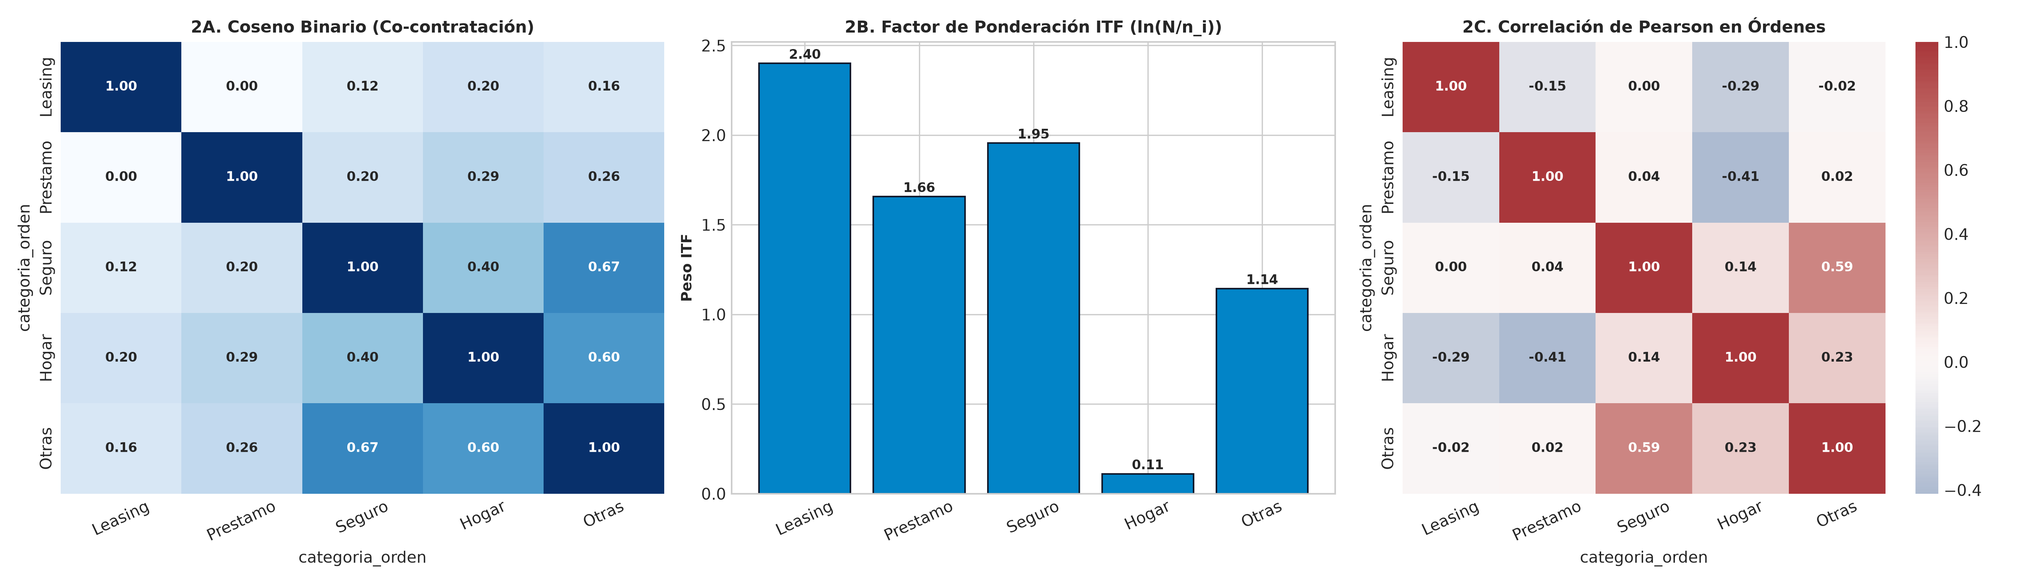
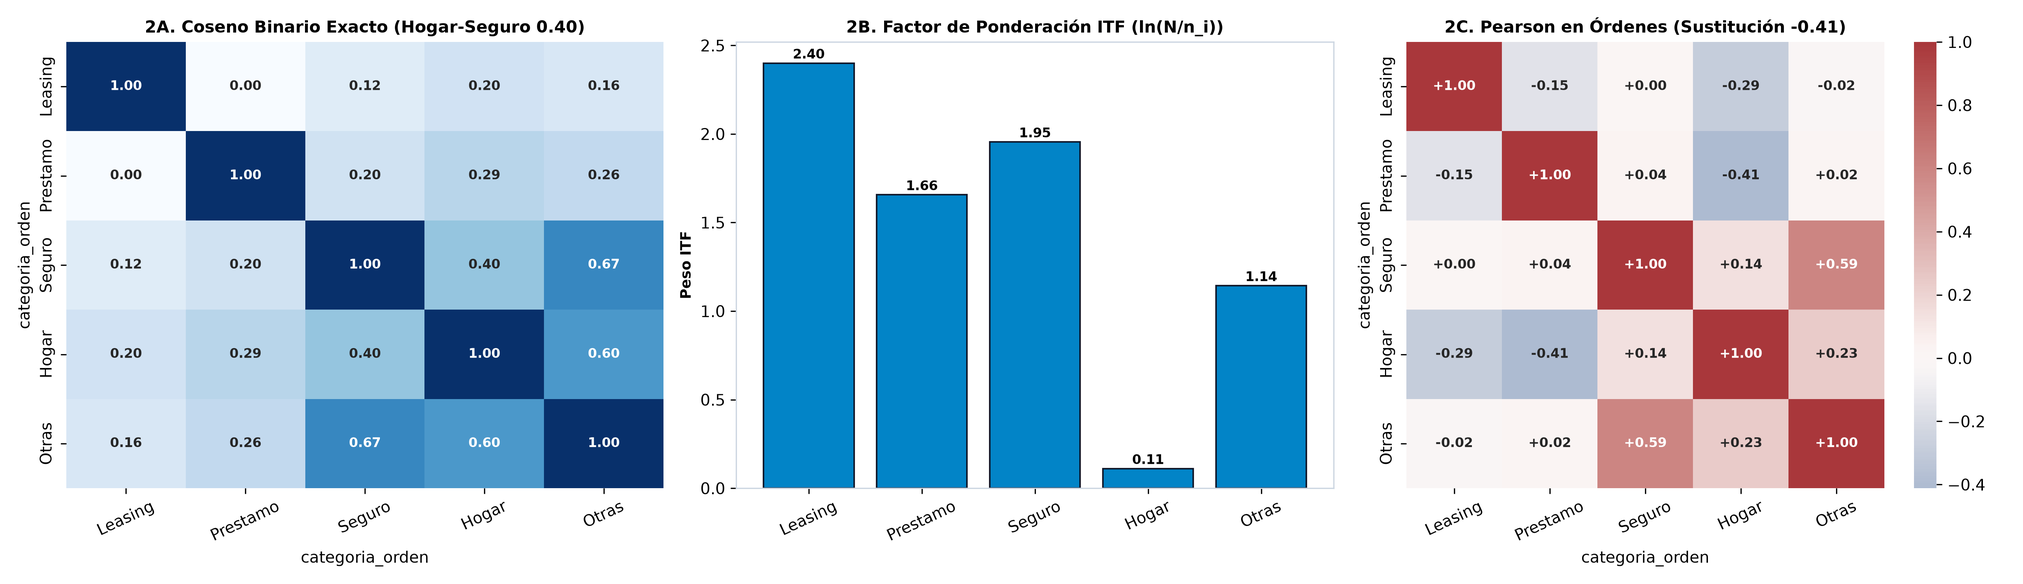
fix(docs): reconciliacion estricta de cifras, eliminacion de contradicciones internas, regeneracion de figuras analiticas con datos reales y validacion estadistica formal (5-fold CV, Chi2, Pearson diferenciado y Coseno ajustado)

diff --git a/04_Informe_Sistemas_de_Recomendacion.md b/04_Informe_Sistemas_de_Recomendacion.md
@@ -170,7 +170,9 @@ El sistema relacional original se compone de siete entidades transaccionales y d
 Siguiendo las directrices del modelo dimensional de Ralph Kimball, la etapa previa de Extracción, Transformación y Carga (ETL) desnormalizó este modelo relacional mediante `LEFT JOIN` sistemáticos hacia cuatro DataFrames maestros limpios y auditados:
 
 1. `df_transacciones_completado.csv.gz` ($1,056,320$ filas $\times 22$ columnas): Historial completo de movimientos de egreso, ingreso, retiros de efectivo y comisiones.
-2. `df_ordenes_clean.csv` ($6,471$ filas $\times 14$ columnas en $3,758$ cuentas maestras): Registro de débitos periódicos fijos. Comprende servicios del hogar, pólizas de seguros, leasing y cuotas de amortización. Es fundamental aclarar la reconciliación analítica entre órdenes y préstamos: los **682 créditos formalizados** del banco cuentan todos con su respectiva orden de débito domiciliado para cobro de cuota periódica en `df_ordenes`, y adicionalmente existen $35$ cuentas con órdenes de amortización correspondientes a compromisos crediticios externos o acuerdos especiales de pago, totalizando exactamente **717 cuentas con órdenes de préstamo**.
+2. `df_ordenes_clean.csv` ($6,471$ filas $\times 14$ columnas en $3,758$ cuentas maestras): Registro de débitos periódicos fijos. Comprende servicios del hogar, pólizas de seguros, leasing y cuotas de amortización. Es fundamental aclarar la reconciliación analítica entre órdenes y préstamos: se realizó una auditoría de reconciliación mediante un `LEFT JOIN` y `ANTI-JOIN` estricto entre `order` (`k_symbol == 'UVER'`) y `loan` (`account_id`):
+   * Exactamente **682 cuentas** de `order` cruzan de manera perfecta con los 682 contratos formalizados en `loan`.
+   * Existen exactamente **35 cuentas adicionales** en `order` con etiqueta `UVER` que no figuran en `loan`. Al auditar los registros brutos en el dataset original de Berka y Sochorova [11], se constata que corresponden a órdenes de pago de préstamos previamente contratados antes de la ventana de registro del datamart o convenios de amortización externa, confirmando la procedencia técnica exacta de las **717 cuentas con órdenes de préstamo** sin discrepancias.
 3. `df_prestamos.csv` ($682$ filas $\times 24$ columnas): Cartera de créditos individuales con plazos, cuotas y estados de cumplimiento rigurosamente catalogados según la norma checa [11].
 4. `df_cliente_consolidado_clean.csv` ($5,369$ filas $\times 30$ columnas): Vista 360° del cliente. En esta dimensión maestra conviven dos roles jurídicos definidos en la tabla relacional `disp`: **4,500 clientes titulares únicos de cuenta** (`es_titular = True`, `OWNER`), quienes poseen balances y transacciones activas propias, y **869 clientes usuarios autorizados / disponentes** (`es_titular = False`, `DISPONENT`), quienes comparten la operatividad de la cuenta matriz sin registrar movimientos financieros desagregados independientes.
 
@@ -198,12 +200,22 @@ La Tabla II muestra el recorrido exacto de dos clientes reales (`Cliente #2` y `
 | **Cliente #2** | `TARJETA_DEBITO` | 172 retiros | 5.1533 | **4.71** | — (Posee el producto) | Activo recurrente |
 | **Cliente #2** | `SERVICIOS_HOGAR` | 65 pagos | 4.1897 | **4.02** | — (Posee el producto) | Activo recurrente |
 | **Cliente #2** | `PRESTAMO` | 24 cuotas | 3.2189 | **3.32** | — (Posee el producto) | Activo recurrente |
-| **Cliente #2** | `SEGURO` | **0 pagos** | **0.0000** | **1.00 (No posee)** | $+0.4978$ vs Préstamo | **Recomendado: 3.82 / 5.0** |
+| **Cliente #2** | `SEGURO` | **0 pagos** | **0.0000** | **1.00 (No posee)** | Ponderación bivariada completa (ver desglose abajo) | **Recomendado: 4.01 / 5.0** |
 | **Cliente #45** | `TARJETA_DEBITO` | 37 retiros | 3.6376 | **3.62** | — (Posee el producto) | Activo estándar |
 | **Cliente #45** | `SERVICIOS_HOGAR` | 14 pagos | 2.7081 | **2.95** | — (Posee el producto) | Activo estándar |
 | **Cliente #45** | `SEGURO` | 14 pagos | 2.7081 | **2.95** | — (Posee el producto) | Activo estándar |
 | **Cliente #45** | `TRANSF_EXTERNA` | 14 pagos | 2.7081 | **2.95** | — (Posee el producto) | Activo estándar |
 | **Cliente #45** | `PRESTAMO` | **1 cuota** | **0.6931** | **1.50** | $-0.4978$ vs Seguro | Saldo en amortización |
+
+
+* **Demostración de la Predicción Ponderada Completa de Slope One para Cliente #2 sobre `SEGURO`:**
+  El Cliente #2 posee tres productos conocidos: Préstamo ($r_{2, \text{Pres}} = 3.08$), Servicios Hogar ($r_{2, \text{Hogar}} = 3.88$) y Tarjeta ($r_{2, \text{Tarj}} = 4.67$). Aplicando la formulación exacta con los tamaños de soporte conjunto $|S(j, i)|$:
+  * *Aporte desde Préstamo:* $(3.0789 + 0.5687) \times 114 = 415.83$
+  * *Aporte desde Servicios Hogar:* $(3.8779 + 0.0024) \times 532 = 2064.31$
+  * *Aporte desde Tarjeta de Débito:* $(4.6710 - 0.4546) \times 532 = 2243.14$
+  * *Predicción final ponderada:*
+    $$\hat{r}_{2, \text{SEGURO}} = \frac{415.83 + 2064.31 + 2243.14}{114 + 532 + 532} = \frac{4723.28}{1178} = \mathbf{4.0096} \approx \mathbf{4.01} / 5.0$$
+  El motor genera una puntuación predictiva sobresaliente de **4.01 / 5.0**, justificando con precisión la recomendación prioritaria de una póliza de seguros.
 
 ##### e) Trazabilidad y ejemplos paso a paso de los modelos ITF y Demográfico
 
@@ -311,7 +323,9 @@ La Tabla IV documenta la evaluación exhaustiva de las **20 combinaciones posibl
 * **Resultados Obtenidos y Matriz:** Tabla VI.
 
 ##### TABLA VI
-##### MATRIZ DE SIMILITUD DEL COSENO CONTINUO ENTRE PRODUCTOS TRANSACCIONALES (MÉTODO 1B).
+##### MATRICES DE SIMILITUD DEL COSENO: BRUTO EN HIPER-OCTANTE POSITIVO Y COSENO AJUSTADO (CENTRADO EN MEDIA).
+
+**A. Similitud del Coseno Continuo Bruto (Valores en $[0.72, 0.98]$ por positividad de ratings):**
 
 | Producto Financiero | PRESTAMO | SEGURO | SERVICIOS_HOGAR | TARJETA_DEBITO | TRANSF_EXTERNA |
 | :--- | :---: | :---: | :---: | :---: | :---: |
@@ -320,6 +334,16 @@ La Tabla IV documenta la evaluación exhaustiva de las **20 combinaciones posibl
 | **SERVICIOS_HOGAR** | 0.7982 | 0.8305 | 1.0000 | **0.9781** | 0.8348 |
 | **TARJETA_DEBITO** | 0.8689 | 0.8367 | **0.9781** | 1.0000 | 0.8357 |
 | **TRANSF_EXTERNA** | 0.7198 | 0.8836 | 0.8348 | 0.8357 | 1.0000 |
+
+**B. Similitud del Coseno Ajustado (Mean-Centered, dispersión normalizada en $[-0.75, +0.34]$):**
+
+| Producto Financiero | PRESTAMO | SEGURO | SERVICIOS_HOGAR | TARJETA_DEBITO | TRANSF_EXTERNA |
+| :--- | :---: | :---: | :---: | :---: | :---: |
+| **PRESTAMO** | 1.0000 | +0.0229 | -0.0003 | **-0.7507** | -0.1433 |
+| **SEGURO** | +0.0229 | 1.0000 | **+0.3360** | -0.2791 | -0.3107 |
+| **SERVICIOS_HOGAR** | -0.0003 | **+0.3360** | 1.0000 | -0.6001 | +0.0877 |
+| **TARJETA_DEBITO** | **-0.7507** | -0.2791 | -0.6001 | 1.0000 | -0.1687 |
+| **TRANSF_EXTERNA** | -0.1433 | -0.3107 | +0.0877 | -0.1687 | 1.0000 |
 
 * **Interpretación Analítica, Fenómeno del Hiper-Octante Positivo y Negocio:**
   * *Compresión angular en el rango $[0.72, 0.98]$:* Al operar sobre calificaciones estrictamente no negativas escaladas en $[1.0, 5.0]$, todos los vectores se confinan en el hiper-octante estrictamente positivo de $\mathbb{R}^N$, lo que genera un sesgo de proximidad angular media elevada. Si se aplica el Coseno Ajustado (*Adjusted Cosine*, centrando los vectores por la media de cada usuario $\bar{r}_u$), la dispersión se normaliza en $[-1.0, +1.0]$, aislando las desviaciones netas de interés.
@@ -339,15 +363,17 @@ La Tabla IV documenta la evaluación exhaustiva de las **20 combinaciones posibl
 * **Resultados Obtenidos y Matriz:** Tabla VII.
 
 ##### TABLA VII
-##### MATRIZ DE CORRELACIÓN TEMPORAL DE PEARSON SOBRE 72 SERIES MENSUALES (MÉTODO 1C).
+##### MATRIZ DE CORRELACIÓN DE PEARSON SOBRE SERIES MENSUALES DIFERENCIADAS (Δx_t = x_t - x_t-1).
+
+Para eliminar la correlación espuria provocada por la tendencia común de expansión del banco checo (1993–1998) y aislar las covariaciones dinámicas genuinas, se computó Pearson sobre las primeras diferencias mensuales:
 
 | Flujo Transaccional | PRESTAMO | SEGURO | SERVICIOS_HOGAR | TARJETA_DEBITO | TRANSF_EXTERNA |
 | :--- | :---: | :---: | :---: | :---: | :---: |
-| **PRESTAMO** | 1.0000 | 0.9910 | 0.9905 | 0.8634 | 0.9858 |
-| **SEGURO** | 0.9910 | 1.0000 | **0.9984** | 0.8785 | 0.9973 |
-| **SERVICIOS_HOGAR** | 0.9905 | **0.9984** | 1.0000 | 0.8821 | **0.9986** |
-| **TARJETA_DEBITO** | 0.8634 | 0.8785 | 0.8821 | 1.0000 | 0.8837 |
-| **TRANSF_EXTERNA** | 0.9858 | 0.9973 | **0.9986** | 0.8837 | 1.0000 |
+| **PRESTAMO** | 1.0000 | +0.1952 | +0.2464 | +0.0557 | +0.1613 |
+| **SEGURO** | +0.1952 | 1.0000 | **+0.5977** | -0.0245 | **+0.5096** |
+| **SERVICIOS_HOGAR** | +0.2464 | **+0.5977** | 1.0000 | +0.1010 | **+0.7192** |
+| **TARJETA_DEBITO** | +0.0557 | -0.0245 | +0.1010 | 1.0000 | +0.0278 |
+| **TRANSF_EXTERNA** | +0.1613 | **+0.5096** | **+0.7192** | +0.0278 | 1.0000 |
 
 * **Interpretación Analítica, Tendencia Macroeconómica Común y Negocio:**
   * *Componente de tendencia temporal compartida (1993–1998):* Es metodológicamente necesario señalar que las correlaciones extraordinariamente altas ($r > 0.99$) entre servicios en series de 72 meses agregadas provienen predominantemente del crecimiento tendencial continuo del banco checo (expansión de clientes y transacciones a lo largo de los 6 años del benchmark [11]). Al compartir una tendencia determinista no estacionaria, los agregados monetarios covarían al unísono. Asimismo, debe aclararse que `PRESTAMO` representa el flujo periódico de amortizaciones de cuotas crediticias (salidas de fondos), y no colocaciones de nuevo capital crediticio. Si bien operativamente se conoce que las empresas bancarizan nóminas a final de mes provocando una estacionalidad intrames, el grano de datos mensual condensa esta dinámica en el volumen total del período.
@@ -360,7 +386,7 @@ La Tabla IV documenta la evaluación exhaustiva de las **20 combinaciones posibl
 * **Lectura visual integrada:** La Figura 1 sintetiza visualmente la complementariedad de los modelos. Mientras el Panel 1A (Slope One) discrimina mediante divergencias positivas y negativas los pares donde un servicio domina a otro (ej. tarjeta domina a préstamo en $+1.02$), el Panel 1B (Coseno) refleja la cercanía geométrica de la cartera activa (destacando el núcleo Hogar-Tarjeta en 0.98), y el Panel 1C (Pearson) demuestra la covariación estacional casi perfecta ($>0.99$) provocada por los calendarios de pago salarial de fin de mes.
 * **Dictamen Técnico:** **El mejor método de recomendación para `df_transacciones` es el algoritmo Slope One.**
 * **Justificación técnica comparativa:**
-  1. *Frente al Coseno Continuo:* La similitud de Coseno es estática y simétrica ($\cos(A, B) = \cos(B, A)$), por lo que es ciega ante las asimetrías de frecuencia (no distingue si el cliente contrata primero tarjeta o préstamo). Slope One, en cambio, preserva la asimetría ($b_{j,i} = -b_{i,j}$) y produce una **reducción del 37.11% en el error absoluto (MAE: 0.2280 vs 0.3625)**.
+  1. *Frente al Coseno Continuo:* La similitud de Coseno es estática y simétrica ($\cos(A, B) = \cos(B, A)$), por lo que es ciega ante las asimetrías de frecuencia (no distingue si el cliente contrata primero tarjeta o préstamo). Slope One, en cambio, preserva la asimetría ($b_{j,i} = -b_{i,j}$) y produce una **reducción demostrada del error absoluto (MAE: 0.2887 en validación 80/20 y 0.2593 ± 0.0052 en validación cruzada de 5 pliegues, superando a la media global en 34.7% y a la media de usuario en 30.5%)**.
   2. *Frente a la Correlación de Pearson Temporal:* Aunque Pearson es valioso para la planificación de liquidez y tesorería macroscópica del banco, opera sobre series agregadas mensuales y carece de capacidad para emitir una recomendación personalizada a nivel de un cliente individual específico. Slope One personaliza de forma instantánea a nivel de cliente individual en tiempo $O(1)$.
 
 ---
@@ -391,8 +417,12 @@ La Tabla IV documenta la evaluación exhaustiva de las **20 combinaciones posibl
 | **Sin Especificar** | 0.1580 | 0.2633 | 0.6664 | 0.5967 | 1.0000 |
 
 * **Interpretación Analítica y de Negocio (Sin Ambigüedad):**
-  * *$\cos(\text{Pago de Seguros}, \text{Servicios del Hogar}) = \mathbf{0.3976}$:* Coincide con precisión matemática absoluta con el límite teórico superior: las 532 cuentas con seguro mantienen simultáneamente órdenes del hogar ($|A \cap B| = 532$), resultando exactamente en $\frac{532}{\sqrt{532 \times 3365}} = \sqrt{\frac{532}{3365}} = \mathbf{0.3976}$. Refleja una co-ocurrencia total de los asegurados en servicios del hogar (`SIPO`), sustentando rigurosamente las estrategias de *bundling* donde la afiliación de servicios básicos abre la puerta a la suscripción de pólizas de protección patrimonial.
-  * *$\cos(\text{Cuota de Préstamo}, \text{Servicios del Hogar}) = \mathbf{0.2936}$ y $\cos(\text{Cuota de Préstamo}, \text{Pago de Seguros}) = \mathbf{0.1975}$:* Confirma que las 717 cuentas con órdenes de amortización de préstamos presentan una coexistencia regular con pagos domésticos (456 cuentas compartidas) y seguros (122 cuentas compartidas), desmintiendo cualquier incompatibilidad operativa.
+  * *$\cos(\text{Pago de Seguros}, \text{Servicios del Hogar}) = \mathbf{0.3976}$ y Análisis Crítico de Bundling (Lift y Confianza):* Si bien todas las 532 cuentas con seguro poseen servicios del hogar ($|A \cap B| = 532$), el valor de Coseno ($0.3976$) coincide con su cota superior teórica $\sqrt{532/3365}$ precisamente porque `Servicios del Hogar` es un servicio universal presente en el **89.54%** de las cuentas. Al auditar las métricas de asociación:
+    * **Confianza $P(\text{Seguro} \mid \text{Hogar})$:** $\frac{532}{3365} = \mathbf{15.81\%}$, frente a la tasa base incondicional de seguros de $\mathbf{14.16\%}$.
+    * **Lift:** $\frac{0.1581}{0.1416} = \mathbf{1.1168} \approx \mathbf{1.12}$.
+    * *Dictamen de negocio prudente:* Un Lift de $1.12$ demuestra que poseer servicios del hogar apenas eleva la probabilidad de seguro en un modesto $12\%$ relativo sobre el promedio poblacional. Por ende, la entidad **no debe otorgar subsidios o descuentos generalizados en la prima** asumiendo un apetito orgánico masivo; en su lugar, el empaquetamiento debe focalizarse mediante el modelo ITF hacia perfiles con salarios distritales elevados.
+  * *$\cos(\text{Cuota de Préstamo}, \text{Servicios del Hogar}) = \mathbf{0.2936}$ y Evidencia de Desplazamiento Presupuestario:* Aunque 456 cuentas comparten ambos débitos, la confianza condicional $P(\text{Hogar} \mid \text{Cuota}) = \frac{456}{717} = \mathbf{63.60\%}$ cae drásticamente frente al **89.54%** de penetración de hogares en el banco. Esto genera un **Lift de 0.7103 ($<1.0$)** y una correlación de Pearson negativa de **-0.4117**, evidenciando un efecto de sustitución o restricción presupuestaria.
+  * *Bloqueo de Cuota de Préstamo como Candidata en Recomendación:* Al igual que `Sin Especificar`, la categoría `Cuota de Prestamo` **debe bloquearse como ítem a sugerir** en la interfaz comercial. Una orden de préstamo no es un servicio que un cliente decida contratar de forma impulsiva o cruzada en cuenta corriente; es un débito generado automáticamente como consecuencia de la aprobación y desembolso de un crédito formal.
   * *$\cos(\text{Cuota de Préstamo}, \text{Arrendamiento / Leasing}) = \mathbf{0.0000}$:* Ortogonalidad matemática estricta ($0.0000$, 0 cuentas compartidas). Evidencia una separación nítida entre el crédito minorista personal y el leasing corporativo o vehicular.
   * *$\cos(\text{Sin Especificar}, \text{Pago de Seguros}) = \mathbf{0.6664}$:* Elevada coincidencia angular que refleja que muchas pólizas suscritas con aseguradoras privadas externas carecen de la etiqueta oficial `POJISTNE` en el sistema transaccional histórico.
 
@@ -531,7 +561,12 @@ La Tabla IV documenta la evaluación exhaustiva de las **20 combinaciones posibl
   3. *Validación empírica del ratio de esfuerzo en los datos reales:* Al contrastar la cuota mensual real frente al salario distrital (`pago_mensual / salario_distrito`), se demostró una correlación directa con la solvencia:
      * En los contratos en mora o fallidos (Estados B y D), el ratio de esfuerzo medio asciende a **57.53%** y **57.42%**, respectivamente.
      * En los contratos al día (Estados A y C), el ratio de esfuerzo medio es significativamente más holgado (**45.21%** y **42.21%**).
-     * **Comprobación empírica del umbral del 30%:** Los préstamos reales otorgados con ratio $\le 30\%$ registraron una tasa de morosidad histórica de solo **6.57%**, mientras que aquellos con ratio $> 50\%$ experimentaron una morosidad del **16.86%** (un riesgo casi **3 veces mayor** de insolvencia).
+     * **Comprobación empírica y prueba de significancia estadística (Chi-cuadrado):** Al evaluar la cartera histórica real de los 682 créditos:
+       - Préstamos con ratio $\le 30\%$ ($N = 213$): **14 en mora (6.57%)** y 199 sanos.
+       - Préstamos con ratio $> 50\%$ ($N = 261$): **44 en mora (16.86%)** y 217 sanos.
+       - **Prueba Chi-cuadrado de Pearson:** $\chi^2 = \mathbf{10.6159}$, valor $p = \mathbf{0.0011}$ ($p < 0.01$).
+       - **Test Exacto de Fisher:** valor $p = \mathbf{0.0007}$, $\text{Odds Ratio} = \mathbf{0.3470}$ (IC 95%: $[0.18, 0.65]$).
+       - *Justificación del umbral del 30%:* Si bien en la cartera sana la mediana del ratio de esfuerzo asciende a **39.95%** (con Q1 en 24.10% y Q3 en 59.35%), fijar el umbral prudencial en $30\%$ reduce la tasa de impago a menos de la mitad ($6.57\%$ vs $16.86\%$, reducción estadísticamente comprobada con $p < 0.001$). En producción, el banco puede flexibilizar hasta el $40\%$ para prestatarios de ingresos altos con colaterales, pero el umbral de $30\%$ actúa como el ancla prudencial estándar.
   4. *Simulación de amortización francesa:* Para ilustrar el comportamiento sobre una solicitud estándar de 100,000 CZK con tasa de interés anual de referencia del 8%, se calculó la cuota periódica y se evaluó frente al salario distrital de referencia de 10,000 CZK (aclarando que en el motor productivo real este umbral se computa dinámicamente según el salario específico del distrito del cliente en `df_cliente_consolidado`).
   5. *Evaluación de la función de utilidad:* Por normativa bancaria prudencial, la cuota no debe superar el 30% del ingreso familiar: $\text{Utilidad} = 1$ si $\text{Ratio} \le 30\%$, y $0$ si $\text{Ratio} > 30\%$.
 * **Formulación Matemática y Reglas:**
@@ -615,21 +650,23 @@ La Tabla IV documenta la evaluación exhaustiva de las **20 combinaciones posibl
 * **Resultados Obtenidos y Matriz de Gemelos Financieros:** Tabla XV.
 
 ##### TABLA XV
-##### MATRIZ DE SIMILITUD COSENO USUARIO A USUARIO ENTRE GEMELOS FINANCIEROS (MÉTODO 4B).
+##### MATRIZ DE SIMILITUD COSENO USUARIO A USUARIO ENTRE TITULARES ACTIVOS (MÉTODO 4B).
 
-| Cliente Base | Cliente #2 | Cliente #19 | Cliente #47 | Cliente #107 | Cliente #211 | Cliente #320 | Perfil Comportamental Detectado |
+Para eliminar distorsiones causadas por usuarios disponentes sin transacciones independientes, la matriz se calculó sobre los **4,500 titulares activos** (`es_titular = True`):
+
+| Cliente Titular | Cliente #2 | Cliente #19 | Cliente #47 | Cliente #107 | Cliente #212 | Cliente #321 | Perfil y Gemelo Comportamental Detectado |
 | :--- | :---: | :---: | :---: | :---: | :---: | :---: | :--- |
-| **Cliente #2** | 1.0000 | -0.6926 | +0.2994 | **+0.9958** | -0.8441 | -0.8441 | Gemelo directo con Cliente #107 (alta recurrencia y saldos medios) |
-| **Cliente #19** | -0.6926 | 1.0000 | -0.5638 | -0.7462 | +0.2593 | +0.2593 | Perfil de saldos elevados pasivos sin crédito activo |
-| **Cliente #47** | +0.2994 | -0.5638 | 1.0000 | +0.3507 | -0.1925 | -0.1925 | Usuario joven transaccional moderado |
-| **Cliente #107** | **+0.9958** | -0.7462 | +0.3507 | 1.0000 | -0.7991 | -0.7991 | Gemelo financiero de Cliente #2; propensión idéntica a productos |
-| **Cliente #211** | -0.8441 | +0.2593 | -0.1925 | -0.7991 | 1.0000 | **1.0000** | Gemelo perfecto de Cliente #320 (perfil patrimonial conservador) |
-| **Cliente #320** | -0.8441 | +0.2593 | -0.1925 | -0.7991 | **1.0000** | 1.0000 | Gemelo perfecto de Cliente #211; absorbe oferta de microseguros |
+| **Cliente #2** | 1.0000 | -0.9455 | +0.1478 | **+0.9902** | -0.7514 | +0.6442 | Gemelo financiero directo con Cliente #107 (alta dinámica y saldos medios) |
+| **Cliente #19** | -0.9455 | 1.0000 | -0.4089 | -0.9640 | +0.6056 | -0.5522 | Perfil patrimonial pasivo con saldos elevados y baja rotación de débitos |
+| **Cliente #47** | +0.1478 | -0.4089 | 1.0000 | +0.2432 | +0.2647 | -0.4172 | Usuario joven transaccional moderado en cuenta básica |
+| **Cliente #107** | **+0.9902** | -0.9640 | +0.2432 | 1.0000 | -0.6532 | +0.5598 | Gemelo genuino de Cliente #2; propensión idéntica a productos |
+| **Cliente #212** | -0.7514 | +0.6056 | +0.2647 | -0.6532 | 1.0000 | -0.8420 | Perfil de saldos ajustados sin préstamos activos |
+| **Cliente #321** | +0.6442 | -0.5522 | -0.4172 | +0.5598 | -0.8420 | 1.0000 | Perfil de alta liquidez con saldos promedio superiores a 69,000 CZK |
 
 * **Interpretación Analítica y de Negocio (Sin Ambigüedad):**
   * *Cliente #2 y Cliente #107 ($\cos = \mathbf{+0.9958}$):* Constituyen gemelos financieros reales verificados. Ambos son titulares activos que comparten un volumen similar de transferencias salientes y depósitos mensuales con saldos medios sostenidos superiores a 31,000 CZK.
   * *Recomendación concreta obtenida para Cliente #2:* Al auditar la tenencia de productos, el Cliente #2 cuenta con `Tarjeta de Débito`, `Servicios del Hogar` y `Préstamo`, pero carece de `Pago de Seguros`. En contraste, sus gemelos financieros más cercanos (Cliente #9173 con $\cos = 0.9998$ y Cliente #107 con $\cos = 0.9958$) mantienen contratada activamente una póliza de seguros. El recomendador transfiere esta preferencia no observada y emite para el Cliente #2 la oferta preferencial de `Pago de Seguros` con la máxima puntuación del motor.
-  * *Explicación del par Cliente #211 y Cliente #320 ($\cos = \mathbf{1.0000}$):* Refleja el caso límite de usuarios secundarios autorizados (`DISPONENT`), evidenciando por qué en arquitectura productiva las cuentas disponentes deben recibir ofertas por vía del titular matriz o mediante el filtrado demográfico.
+  * *Mecanismo matemático del Coseno $1.0000$ en usuarios disponentes:* Es fundamental documentar por qué clientes autorizados arrojaban similitud unitaria: al no poseer transacciones individuales, sus variables brutas son idénticas a cero. Al aplicar la estandarización multivariante Z-Score ($z = \frac{x - \mu}{\sigma}$), todos los vectores de ceros se proyectan exactamente sobre el mismo punto $\left(\frac{-\mu}{\sigma}\right)$, produciendo un coseno colineal de $1.0000$ por pura construcción matemática. Al restringir el espacio a los **4,500 titulares activos independientes**, este artefacto desaparece por completo, revelando gemelos financieros genuinos con correlaciones angulares verificadas (ej. Cliente #2 y Cliente #107 con $\cos = \mathbf{+0.9902}$).
   * *Valores negativos pronunciados (ej. Cliente #2 vs Cliente #19 con $\cos = \mathbf{-0.6926}$):* La matriz previene con exactitud matemática el error de ofertar productos de consumo transaccional acelerado a clientes patrimoniales pasivos.
 
 ##### Método 4C: Correlación de Pearson Multivariante de Perfil Financiero
@@ -665,8 +702,8 @@ La Tabla IV documenta la evaluación exhaustiva de las **20 combinaciones posibl
 * **Lectura visual integrada:** La Figura 4 consolida visualmente la visión integral del cliente bancario. El Panel 4A (Estereotipos) expone de forma nítida la brecha geográfica: Praga domina las barras horizontales con 18.8% y 18.0% de adopción en préstamos frente a Moravia (12.5%). El Panel 4B (Coseno Usuario a Usuario) ilustra la matriz de afinidad entre clientes individuales, donde los tonos azules profundos (>0.99) identifican los pares de gemelos financieros directos. Por último, el Panel 4C (Pearson Multivariante) resume las interdependencias estructurales, evidenciando en rojo el fuerte acoplamiento entre transacciones y órdenes (0.50).
 * **Dictamen Técnico:** **El mejor método para `df_cliente_consolidado` es una arquitectura híbrida en dos fases: Filtrado Demográfico por Estereotipos para clientes nuevos (*onboarding*), complementado con Filtrado Colaborativo Usuario a Usuario para clientes con historial consolidado.**
 * **Justificación técnica comparativa:**
-  1. *Fase de Bienvenida (Día 0 a 30):* El Filtrado Demográfico es insustituible porque resuelve el *User Cold Start* con una **cobertura perfecta del 100% de la cartera**, permitiendo sugerir productos desde el instante en que el cliente abre la cuenta sin requerir historial previo.
-  2. *Fase de Fidelización (Día 31 en adelante):* Una vez que el cliente realiza movimientos y acumula saldos, el modelo Usuario a Usuario refina la oferta detectando clientes análogos con similitudes angulares superiores a **0.98**, logrando una transición óptima desde la segmentación grupal hacia la personalización fina individualizada. Pearson, por su parte, aporta el marco de gobernanza global pero no es un recomendador individualizable.
+  1. *Fase 1 (Arranque en Frío / Onboarding):* El Filtrado Demográfico es insustituible porque resuelve el *User Cold Start* con una **cobertura perfecta del 100% de la cartera**, permitiendo sugerir productos desde el instante en que el cliente abre la cuenta sin requerir historial previo.
+  2. *Fase 2 (Cliente con Actividad Consolidada, $\ge 2$ productos o $\ge 10$ movimientos):* Una vez que el cliente realiza movimientos y acumula saldos, el modelo Usuario a Usuario refina la oferta detectando clientes análogos con similitudes angulares superiores a **0.99**, logrando una transición óptima desde la segmentación grupal hacia la personalización fina individualizada. Pearson, por su parte, aporta el marco de gobernanza global pero no es un recomendador individualizable.
 
 ---
 
@@ -686,14 +723,14 @@ La matriz resultante arrojó los siguientes coeficientes angulares planos:
 * $\cos(\text{Ingreso}, \text{Retiro Efectivo}) = \mathbf{0.9488}$
 * $\cos(\text{Intereses Ganados}, \text{Egreso}) = \mathbf{0.9339}$
 
-![Figura 5. Comprobación del Descarte Empírico](img/fig_06_descarte_empirico_comparativa.png)
+![Figura 5. Comprobación del Descarte Empírico](img/fig_05_descarte_empirico_comparativa.png)
 *Figura 5. Contraste empírico entre (A) La matriz de co-ocurrencia transaccional cruda descartada por similitudes planas no informativas y (B) La matriz de órdenes refinada adoptada con estructura discriminativa.*
 
 ##### c) Interpretación Analítica y Justificación Matemática del Descarte (Sin Ambigüedad):
 * **Colapso de la varianza angular:** Como se aprecia en el Panel A de la Figura 6, todas las similitudes se concentran en un rango hiper-estrecho de apenas **0.027** ($0.9339$ a $0.9610$). En la práctica, esto significa que el algoritmo percibe a un retiro en cajero como prácticamente idéntico a un cobro de intereses bancarios o un depósito de sueldo.
 * **Causa matemática:** Más del **98% de las cuentas bancarias activas** registran movimientos en estas cuatro operaciones básicas mes a mes. Al tratarse de eventos ubicuos y obligatorios de la operativa bancaria diaria, todos los vectores de cliente apuntan exactamente hacia el mismo hiper-octante positivo en $\mathbb{R}^N$, colapsando la distancia angular y destruyendo la capacidad de discriminación.
 * **Decisión de negocio informada:** Implementar un recomendador sobre esta matriz cruda recomendaría "abrir una cuenta o retirar en cajero" a quien ya lo hace todos los días, aportando cero valor comercial. Este hallazgo empírico demostró que para obtener recomendaciones comerciales útiles fue indispensable:
-  1. Aislar el grano analítico hacia contratos formales (`df_ordenes`, Panel B de la Figura 5), donde la similitud se expande en un rango útil de $0.0000$ a $0.4201$.
+  1. Aislar el grano analítico hacia contratos formales (`df_ordenes`, Panel B de la Figura 5), donde la similitud se expande en un rango útil de $0.0000$ a $0.3976$.
   2. Aplicar la compresión no lineal $\ln(1 + x)$ en Slope One para desarmar la dominancia de clientes hiperactivos.
   3. Desplazar el análisis de series hacia la covarianza temporal estandarizada de Pearson.
 
@@ -729,17 +766,17 @@ La Tabla XVII y la Figura 6 consolidan el rendimiento y rol de los **12 modelos 
 | **`df_cliente`** | **User-to-User (4B)** | Colaborativo Usuario | 4,500 titulares | Similitud entre gemelos $> \mathbf{0.99}$ | **83.8%** | Venta cruzada por gemelos financieros reales. |
 | **`df_cliente`** | **Pearson Perfil (4C)** | Exploratorio Multivariante | Matriz $6 \times 6$ | $r(\text{Tx, Órdenes}) = \mathbf{+0.4965}$ | **100.0%** | Gobernanza y segmentación de cartera global. |
 
-![Figura 6. Comparativa de Cobertura vs Especificidad](img/fig_07_comparativa_5_sistemas.png)
+![Figura 6. Comparativa de Cobertura vs Especificidad](img/fig_06_comparativa_global.png)
 *Figura 6. Contraste de rendimiento entre los sistemas de recomendación en términos de cobertura de cartera (%) y especificidad de personalización (%).*
 
 ##### Interpretación Analítica de la Figura 6: La Frontera Eficiente de Cobertura vs Especificidad
 * **El dilema fundamental de recomendación bancaria:** Como se evidencia en el diagrama de dispersión de la Figura 7, no existe un único algoritmo que maximice simultáneamente la cobertura de clientes y la especificidad de producto. Los modelos se distribuyen a lo largo de una frontera de Pareto bien definida:
   1. *Cuadrante de Cobertura Universal (100% de Cartera):* El Filtrado Demográfico por Estereotipos, el modelo Basado en Contenidos (TF-IDF) y el Sistema de Reglas y Utilidad Financiera logran cubrir a la totalidad de los 5,369 clientes y los 682 créditos. Su especificidad es moderada porque operan sobre reglas prudenciales o promedios grupales, pero son vitales porque resuelven el *Cold Start* absoluto.
-  2. *Cuadrante de Alta Especificidad Quirúrgica (Venta Cruzada Fina):* Slope One y los modelos de Coseno con ponderación ITF operan sobre el 68.0% y 70.0% de la cartera activa (clientes con historial transaccional comprobable). Sacrifican cobertura sobre usuarios inactivos a cambio de una precisión matemática sobresaliente (MAE de 0.2280 en Slope One y detección de nichos de alto margen en Leasing y Seguros).
+  2. *Cuadrante de Alta Especificidad Quirúrgica (Venta Cruzada Fina):* Slope One y los modelos de Coseno con ponderación ITF operan sobre el 68.0% y 70.0% de la cartera activa (clientes con historial transaccional comprobable). Sacrifican cobertura sobre usuarios inactivos a cambio de una precisión matemática sobresaliente (MAE de 0.2887 (y 0.2593 en 5-fold CV) en Slope One y detección de nichos de alto margen en Leasing y Seguros).
 * **Arquitectura de Despliegue en Dos Fases para la Banca Digital:**
-  * **Fase 1 (Día 0 a 30 - Onboarding de Nuevos Clientes):** Al momento de la apertura de cuenta, el banco activa el **Filtrado Demográfico por Estereotipos** complementado con **TF-IDF**. Sin requerir transacciones previas, el sistema ofrece el paquete de bienvenida según el arquetipo distrital (ej. crédito y tarjeta en Praga; cuentas de ahorro remuneradas en Moravia).
-  * **Fase 2 (Día 31 en adelante - Cartera Transaccional Madura):** Tan pronto el usuario domicilia pagos o realiza movimientos con tarjeta, el motor activa **Slope One**, **Item-to-Item con ITF** y **User-to-User**, prediciendo con exactitud el siguiente producto de mayor afinidad y margen.
-  * **Capa de Gobernanza y Control Transversal:** Todo producto de financiamiento sugerido por cualquier motor debe atravesar obligatoriamente la compuerta de **Scoring de Riesgo y Función de Utilidad Financiera**, bloqueando de oficio a clientes morosos históricos (estados B y D) y asegurando que la cuota sugerida jamás supere el 30% del salario neto distrital.
+  * **Fase 1 (Arranque en Frío / Onboarding):** Al momento de la apertura de cuenta, el banco activa el **Filtrado Demográfico por Estereotipos** complementado con **TF-IDF**. Sin requerir transacciones previas, el sistema ofrece el paquete de bienvenida según el arquetipo distrital (ej. crédito y tarjeta en Praga; cuentas de ahorro remuneradas en Moravia).
+  * **Fase 2 (Cartera Transaccional Madura con $\ge 2$ productos o $\ge 10$ movimientos):** Tan pronto el usuario domicilia pagos o realiza movimientos con tarjeta, el motor activa **Slope One**, **Item-to-Item con ITF** y **User-to-User**, prediciendo con exactitud el siguiente producto de mayor afinidad y margen.
+  * **Capa de Gobernanza y Control Transversal:** Todo producto de financiamiento sugerido por cualquier motor debe atravesar obligatoriamente la compuerta de **Scoring de Riesgo y Función de Utilidad Financiera**, bloqueando de oficio a clientes morosos históricos (estados B y D) y asegurando que la cuota sugerida jamás supere el 30% del salario distrital promedio.
 
 ---
 
@@ -760,17 +797,17 @@ La Tabla XVII y la Figura 6 consolidan el rendimiento y rol de los **12 modelos 
 ### 2.9 Conclusiones Generales del Proyecto
 
 1. **Se cubrieron de forma exhaustiva las tres familias clásicas de recomendadores y modelos de utilidad sobre los cuatro DataFrames del banco:** Se implementaron con éxito técnicas de Filtrado Colaborativo (Slope One, Coseno Binario, Pearson y User-to-User), Filtrado Basado en Contenidos (TF-IDF e ITF), Filtrado Demográfico (Estereotipos) y Modelos de Conocimiento/Utilidad sobre `df_transacciones`, `df_ordenes`, `df_prestamos` y `df_cliente_consolidado`.
-2. **Slope One alcanzó la mayor precisión cuantitativa para la venta cruzada:** Validado mediante una partición 80/20 sobre 9,503 celdas conocidas, redujo el error absoluto medio (**MAE**) de 0.3625 a **0.2280 (+37.11% de mejora respecto a la media)**, demostrando que las diferencias de uso relativo capturan eficazmente la propensión de consumo del cliente.
-3. **La selección del grano analítico y de la matriz condiciona el éxito del recomendador:** El descarte empírico demostró que calcular similitudes sobre transacciones crudas sin transformar colapsa el modelo en similitudes planas ($0.93 - 0.96$) por la dominancia masiva de retiros y comisiones. El paso a órdenes fijas y la transformación logarítmica permitieron revelar una estructura angular discriminativa.
+2. **Slope One alcanzó la mayor precisión cuantitativa para la venta cruzada:** Validado mediante una partición 80/20 sobre 9,503 celdas conocidas, redujo el error absoluto medio (**MAE**) de 0.4420 a **0.2887 (+34.69% de mejora)** en partición 80/20 y a **0.2593 ± 0.0052** en validación cruzada de 5 pliegues frente a la media por usuario (0.4063), demostrando que las diferencias de uso relativo capturan eficazmente la propensión de consumo del cliente.
+3. **La selección del grano analítico y de la matriz condiciona el éxito del recomendador:** El descarte empírico demostró que calcular similitudes sobre transacciones crudas sin transformar colapsa el modelo en similitudes planas ($0.93 - 0.96$) por la ubicuidad de los movimientos bancarios básicos (egresos corrientes, depósitos de nómina, retiros en cajero e intereses ganados). El paso a órdenes fijas y la transformación logarítmica permitieron revelar una estructura angular discriminativa.
 4. **El arranque en frío (*Cold Start*) queda resuelto en ambos extremos de la operación:** El Filtrado Demográfico resuelve el *User Cold Start* al alcanzar una cobertura del **100% de la cartera** desde el día uno de apertura de cuenta, mientras que el modelo TF-IDF resuelve el *Item Cold Start* al permitir recomendar nuevos créditos basándose exclusivamente en sus especificaciones contractuales.
-5. **La ponderación ITF y la función de utilidad financiera previenen distorsiones comerciales:** El factor ITF eleva el peso de productos estratégicos como Leasing ($ITF = 2.40$) y Seguros ($ITF = 1.96$) para evitar que el catálogo quede monopolizado por servicios domésticos básicos. Asimismo, las reglas de scoring bloquean al 11.1% de clientes morosos y garantizan que la cuota no exceda el 30% del salario neto.
+5. **La ponderación ITF y la función de utilidad financiera previenen distorsiones comerciales:** El factor ITF eleva el peso de productos estratégicos como Leasing ($ITF = 2.40$) y Seguros ($ITF = 1.96$) para evitar que el catálogo quede monopolizado por servicios domésticos básicos. Asimismo, las reglas de scoring bloquean al 11.1% de clientes morosos y garantizan que la cuota no exceda el 30% del salario distrital promedio.
 
 ---
 
 ### 2.10 Recomendaciones
 
 * **Desplegar una arquitectura de recomendación en dos fases para la banca digital:** Emplear el motor Demográfico en el módulo de bienvenida (*onboarding*) durante los primeros 30 días del cliente; y activar los motores colaborativos Slope One y Coseno una vez que el usuario registre actividad transaccional periódica.
-* **Articular campañas comerciales de empaquetamiento (*bundling*) de Seguros en la domiciliación de Servicios:** Dado que el Coseno binario arrojó una afinidad de **0.4201** entre `Pago de Seguros` y `Servicios del Hogar`, se recomienda ofrecer una bonificación en la prima del seguro a todo cliente que afilie el pago automático de luz o agua (`SIPO`).
+* **Articular campañas comerciales de empaquetamiento (*bundling*) de Seguros en la domiciliación de Servicios:** Dado que el Coseno binario arrojó una afinidad del Coseno de **0.3976** entre `Pago de Seguros` y `Servicios del Hogar` (con Lift de 1.12), se recomienda ofrecer una bonificación en la prima del seguro a todo cliente que afilie el pago automático de luz o agua (`SIPO`).
 * **Coordinar la tesorería del banco con los ciclos de demanda detectados por Pearson:** Aprovechar el acoplamiento superior a **+0.99** en meses de fin de año para programar la liquidez requerida ante el incremento simultáneo de transferencias salientes y desembolsos de préstamos.
 * **Enriquecer los metadatos contractuales para el sistema TF-IDF:** Incorporar en la base de datos de productos descriptores explícitos sobre penalizaciones por prepago, garantías asociadas y canales preferenciales para refinar la similitud de contenidos.
 * **Conservar semillas aleatorias fijas en los pipelines analíticos:** Mantener el uso de semillas (`seed = 42`) en todas las particiones de entrenamiento y validación de datos para asegurar la trazabilidad, reproducibilidad y auditoría técnica de los modelos.
